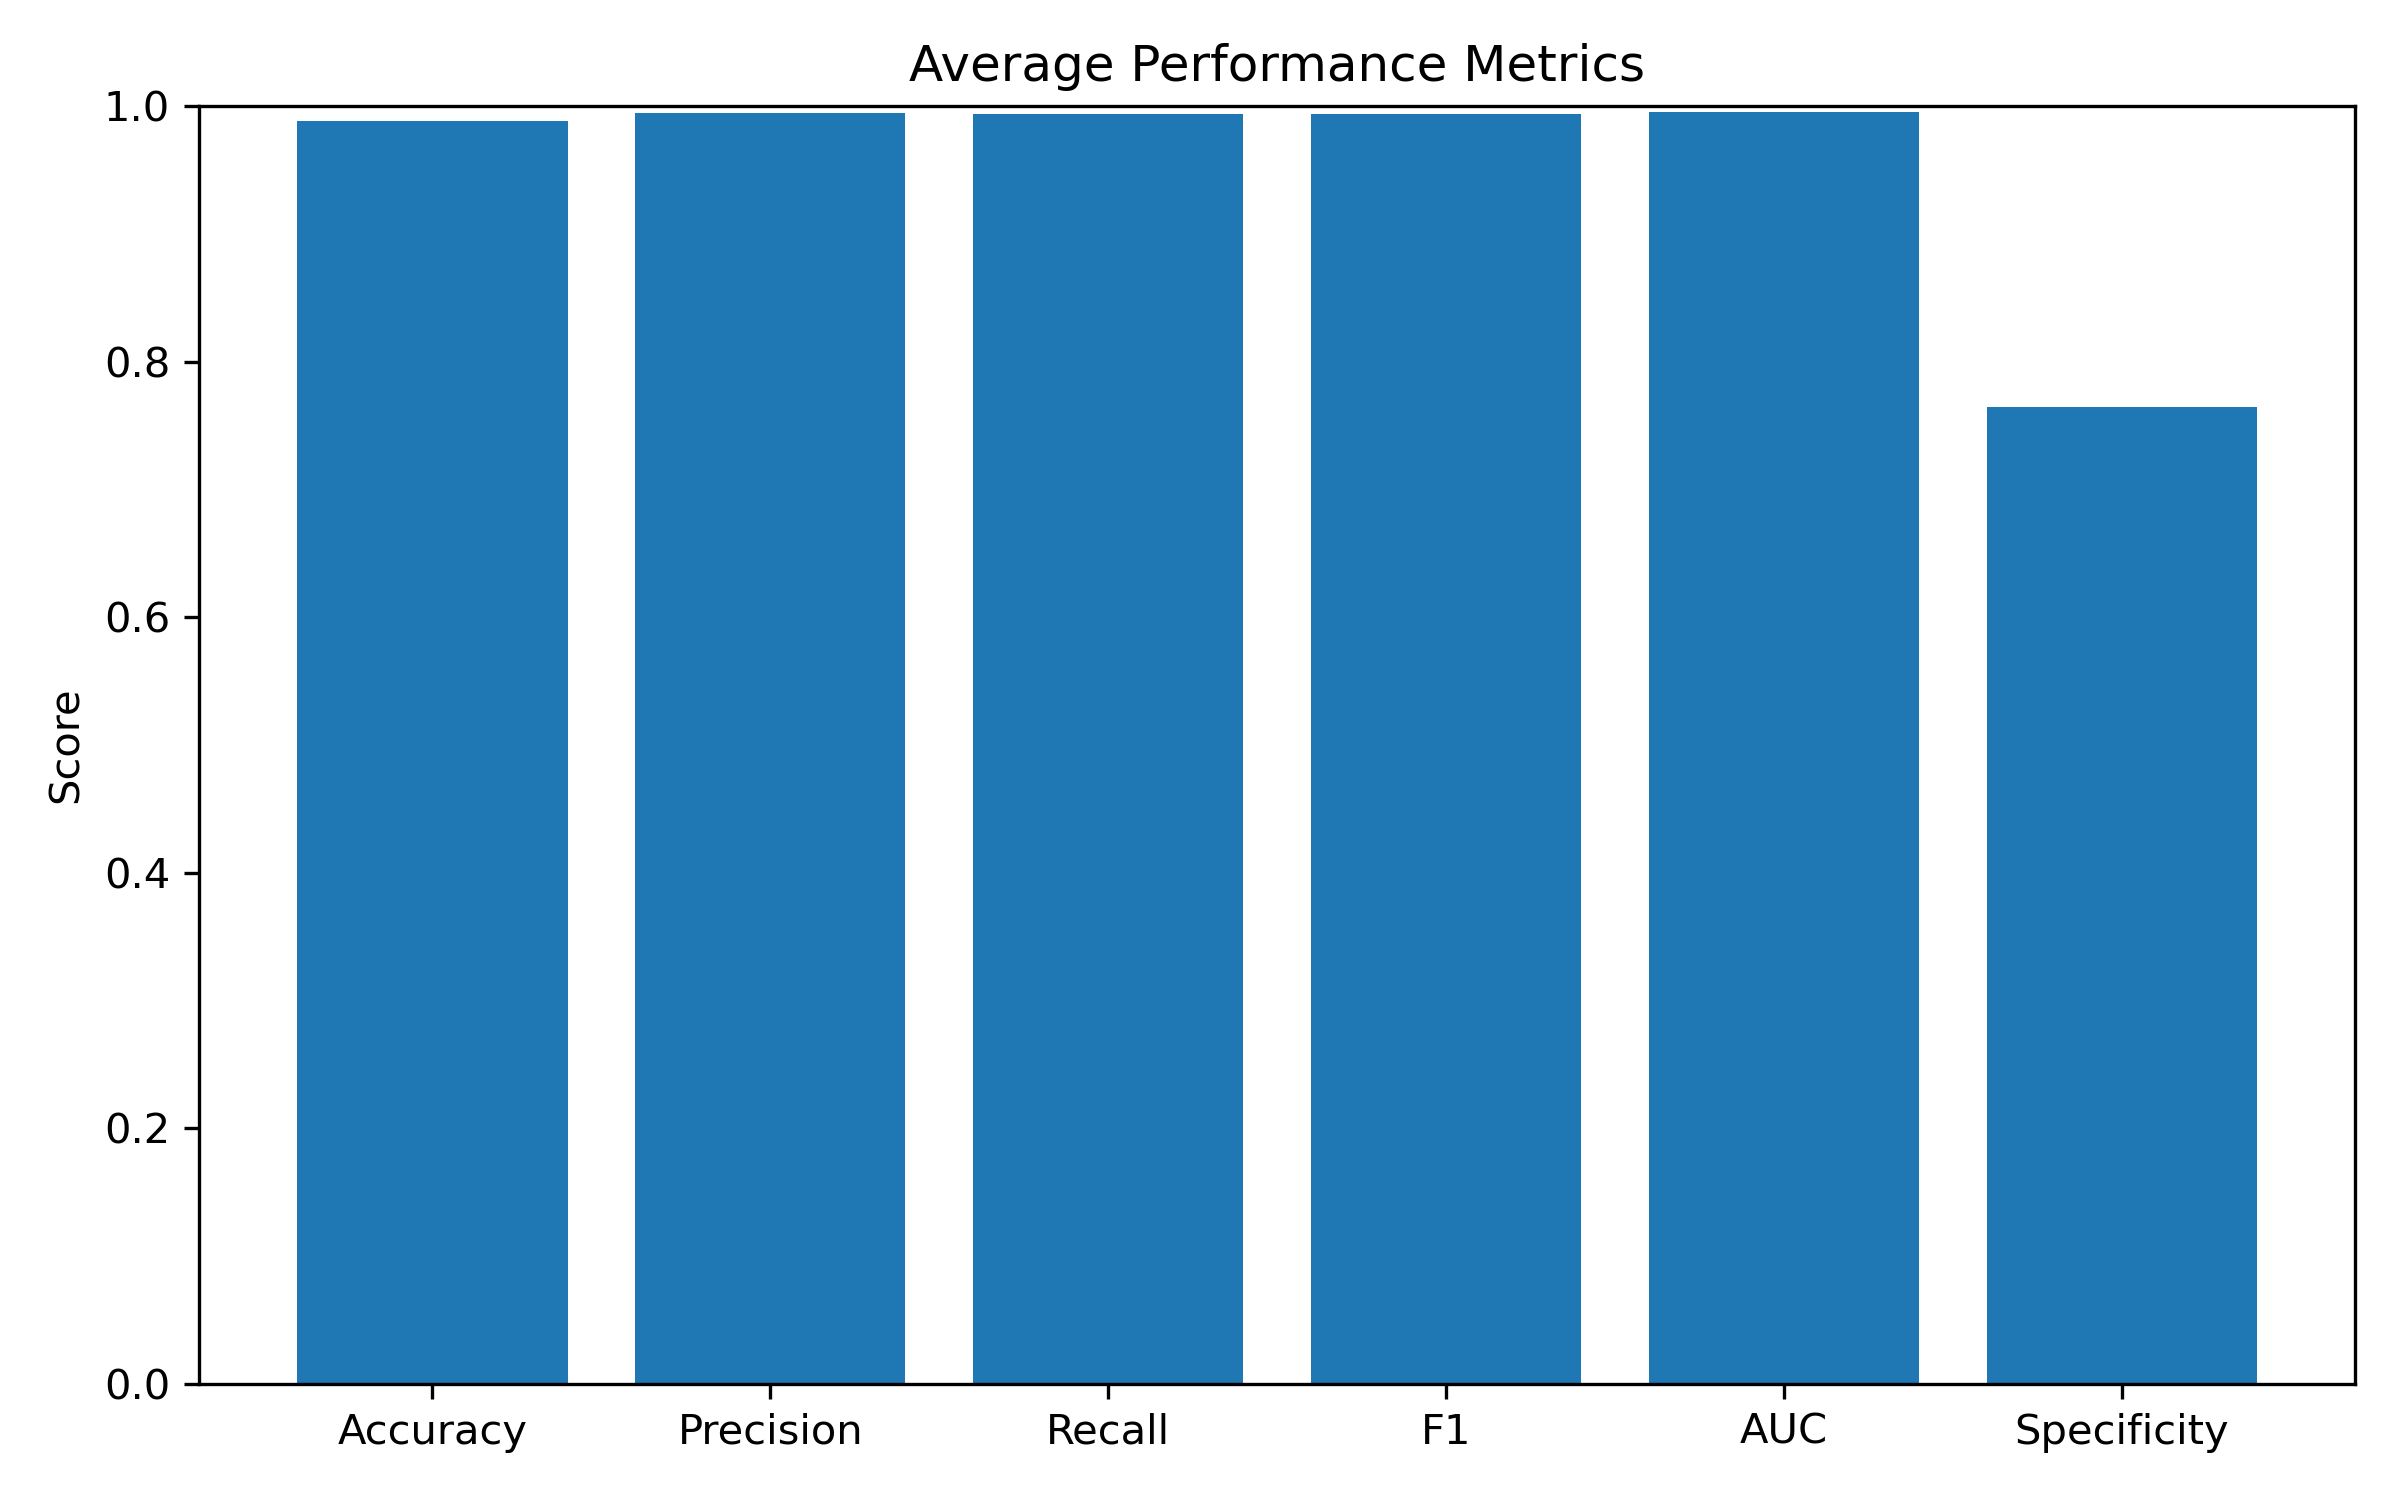
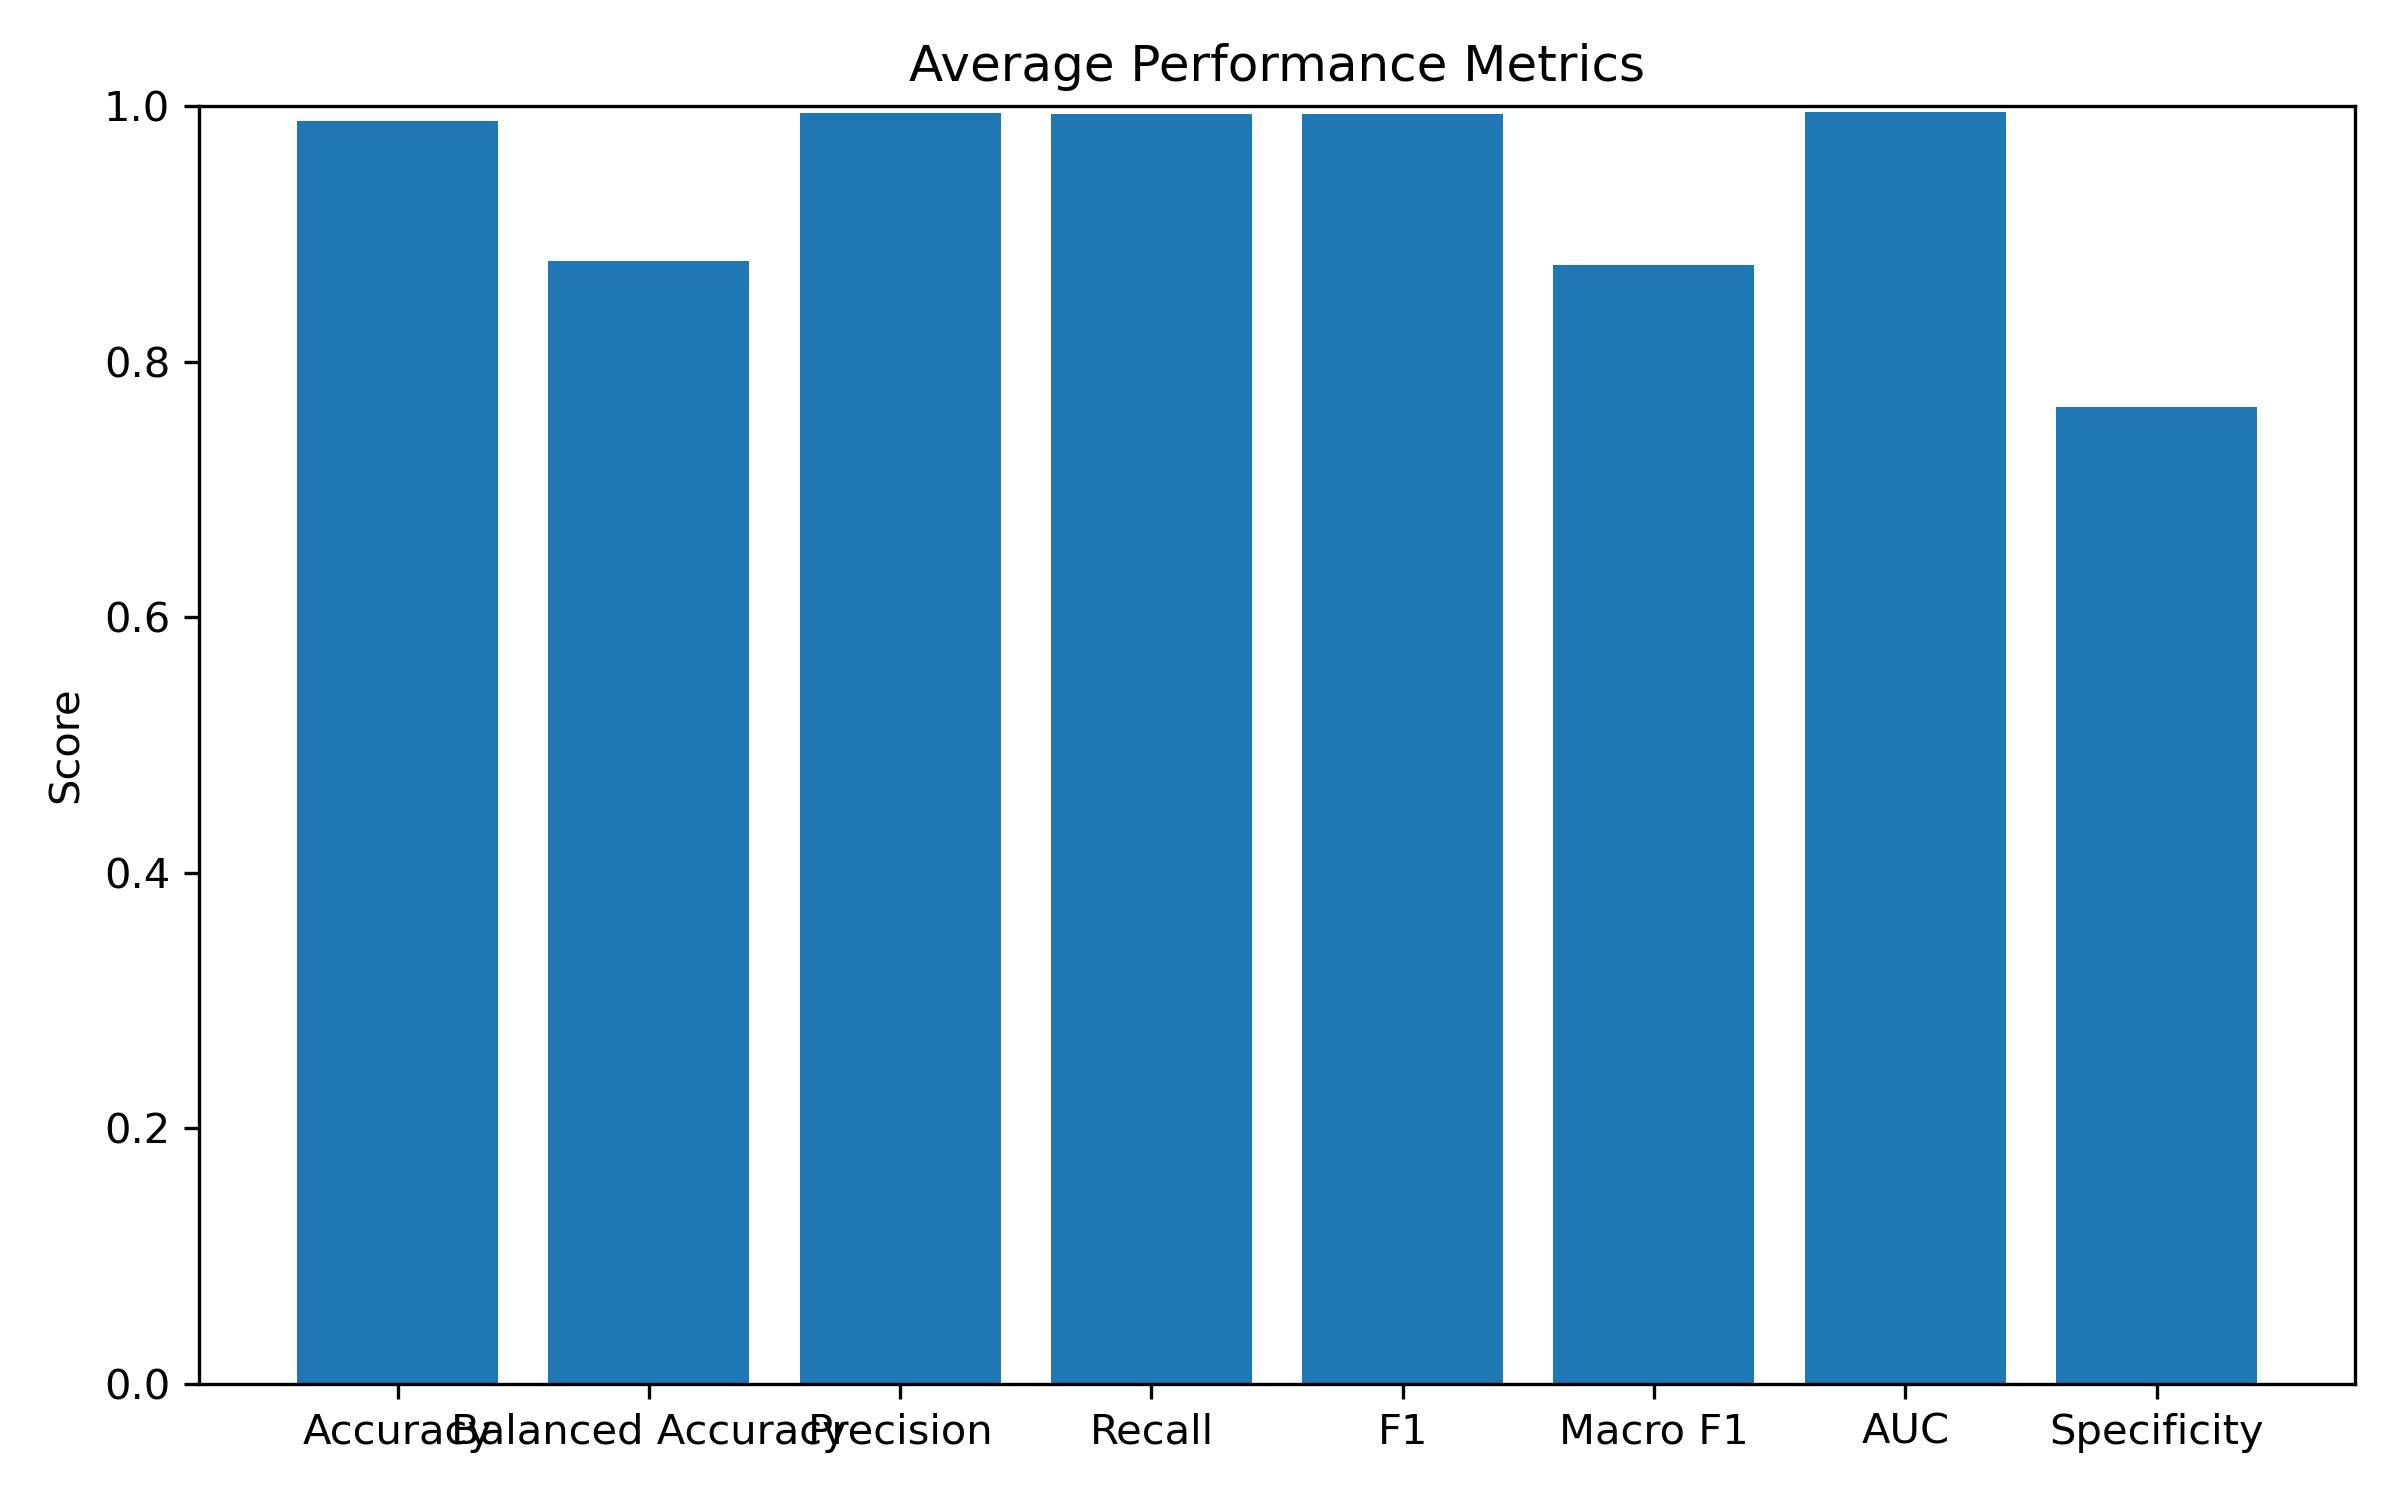
RANDOM FOREST UPDATED

diff --git a/ML/scripts/train_random_forest.py b/ML/scripts/train_random_forest.py
@@ -306,7 +306,7 @@ for train_idx, test_idx in skf.split(X, y):
 
     "F1 Score": f1,
     
-    "Macro F1": macro_f1
+    "Macro F1": macro_f1,
 
     "AUC": auc,
 
